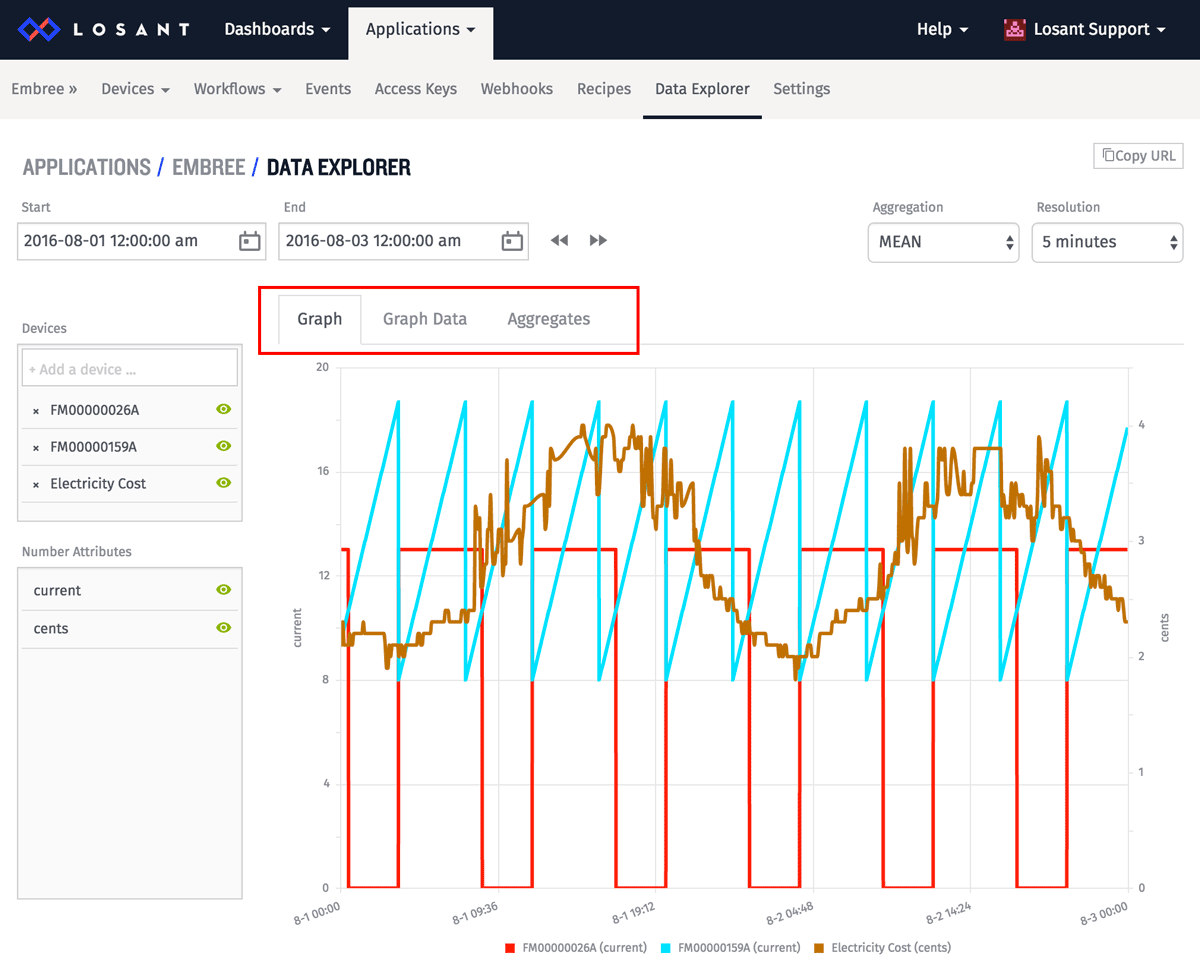
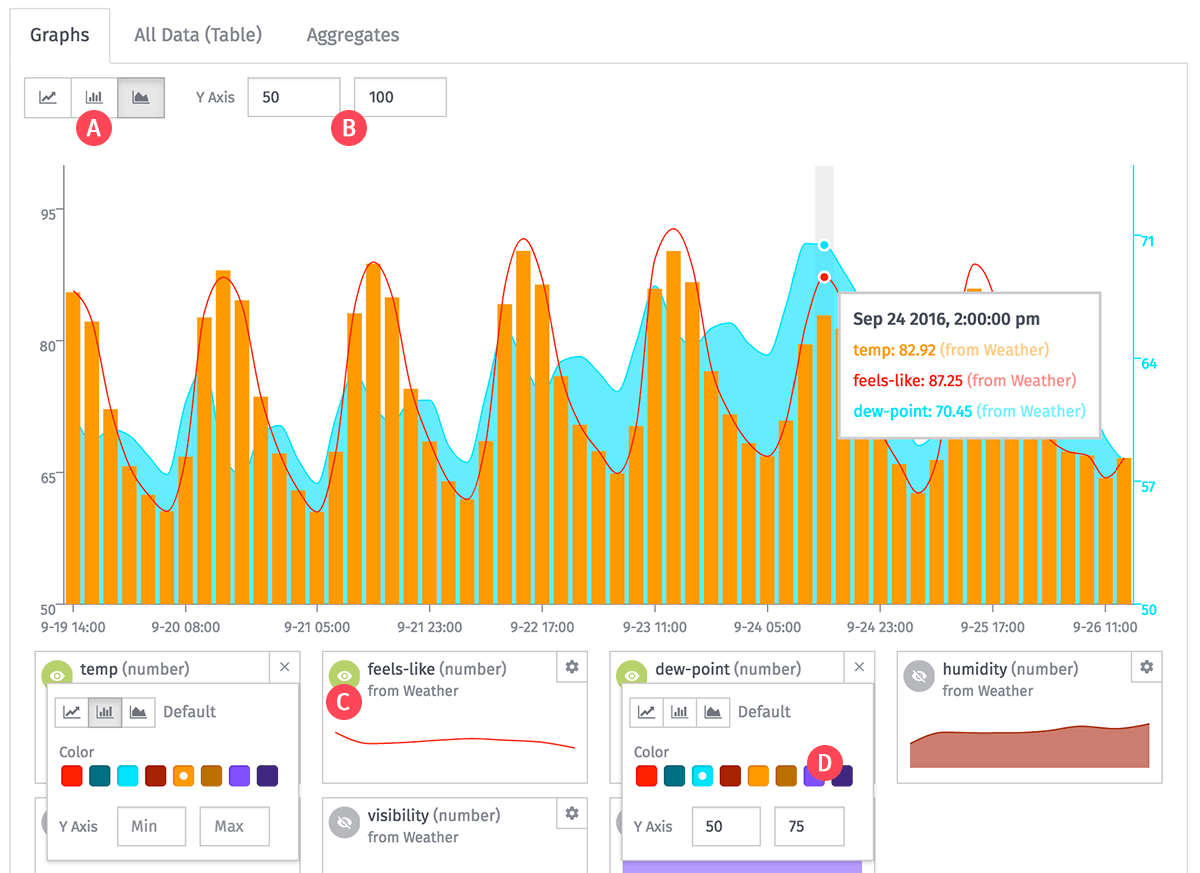
docs for data explorer

diff --git a/docs/applications/data-explorer.md b/docs/applications/data-explorer.md
@@ -1,39 +1,67 @@
 # Data Explorer
 
-The Application Data Explorer allows you to easily explore, aggregate, and analyze historical data across all of the devices in an application.
+The Application Data Explorer allows you to easily explore, aggregate and analyze historical data across all of the devices in an application.
 
-The data explorer can be accessed through the "Data Explorer" link in the Application navigation bar:
+The Data Explorer can be accessed through the "Data Explorer" link in the Application navigation bar:
 
 ![Data Explorer Link](/images/applications/data-explorer-link.png "Data Explorer Link")
 
-There are three main sections to the data explorer.  First, the inputs at the top, which control the time range, resolution, and aggregation of the data.  Second, the controls on the left side which determine what devices and attributes we are gathering data from.  And finally, the center section, which displays the data in various ways (in graph form, in table form, or in aggregation form).
+## Data Settings
 
-## Time Controls
+There are a handful of controls available for building a data query and for exploring application data over time:
 
-![Time Controls](/images/applications/data-explorer-time-controls.png "Time Controls")
-
-*   **A - Start**: controls the start of the time range of the data to display.
-*   **B - End**: controls the end of the time range of the data to display.
-*   **C - Back**: moves the time range back by the current time range duration.  For example, if you are looking at a 3 hour time range, this will move the time range into the past by 3 hours.
-*   **D - Forward**: moves the time range forward by the current time range duration.
-*   **E - Aggregation**:  the aggregator function to use for accumulating the data into the selected resolution.  Defaults to MEAN (i.e., the average of all the values in a resolution window).
-*   **F - Resolution**: The size of the aggregation window, which determines how many points will be displayed for a time range.  For example, a three hour time range at five minute resolution would have 36 data points - one for each five minute period in those three hours.
-
-## Data Controls
-
-<div class="slim-image-container">
-<img src="/images/applications/data-explorer-data-controls.png" alt="Data Controls" title="Data Controls" width="400" />
+<div>
+<img src="/images/applications/data-explorer-time-controls.png" alt="Data Controls" title="Data Controls" style="max-width:600px; margin: 0 auto 20px; display: block;" />
 </div>
 
-*   **A - Add a Device**: This dropdown lets you select one or more devices that you would like to display data for.
-*   **B - Hide/Show a Device**: Clicking this icon will allow you to temporarily hide or show the data for a device.
-*   **C - Remove a Device**: Clicking this 'x' will remove the device from the data display.
-*   **D - Attributes**: This shows the available attributes to display for the given selected devices.  As a note, this will only show `number` attributes.
-*   **E - Hide/Show an Attribute**: Clicking this icon will allow you to temporarily hide or show the data for an attribute.
+*   **A - Start**: Controls the start of the time range of the data to display.
+*   **B - End**: Controls the end of the time range of the data to display.
+*   **C - Back**: Moves the time range back by the current time range duration.  For example, if you are looking at a three-hour time range, this will move the time range into the past by three hours.
+*   **D - Forward**: Moves the time range forward by the current time range duration.
+*   **E - Now**: Moves the "End" time to the current time, and "Start" time to "now minus the current time range duration".
+*   **F - Devices / Tags**: A [device query](/devices/device-queries/#querying-by-devices) for selecting which devices to return data against. All attributes from each device that matches the query will be returned; however, the format of the returned data (and whether data even can be returned) will change depending on each attribute's type and the selected aggregation method.
+*   **G - Aggregation**:  The aggregator function to use for accumulating the data into the selected resolution.  Defaults to MEAN (i.e., the average of all the values in a resolution window).
+*   **H - Resolution**: The size of the aggregation window, which determines how many points will be displayed for a time range.  For example, a three-hour time range at five-minute resolution would have 36 data points - one for each five-minute period in those three hours.
 
-## Data Display
+## Graphs Tab
 
 ![Data Display](/images/applications/data-explorer-data-display.png "Data Display")
 
-There are a couple choices for displaying the data. By default it displays in graph form,
-but you can also choose to display all of the data points in tabular form. The third option for display just shows the over aggregates for the time range - extremely useful if you are looking for general information over a period.  For both the tabular display and the aggregate display, you can download the data as a CSV file for use in other applications.
+After building your data query, the Graph tab will update to show an array of graphable attributes with "spark lines" representing a simplified version of that attribute's data over the given time period. Only attributes of the **Number** and **Boolean** types can be displayed on the cartesian grid, unless **COUNT** is the chosen aggregation. In that case, the number of times **String** and **GPS** attributes are reported per resolution period will also be displayed on the graph.
+
+Hovering your mouse over the main graph will display a tooltip with the exact value of each graphed attribute at that time.
+
+The Graphs Tab, as well as the individual attributes within the tab, have a handful of configuration settings:
+
+*   **A - Graph Type**: Segments can be displayed as a line graph, a bar chart or an area chart. This can be set as the default across all selected attributes, and that default setting can be overridden per attribute.
+*   **B - Y Axis Domain**: Leave the min and max inputs blank to automatically calculate the graph size based on the data returned. However, if you'd like to set a custom min and/or max data range, enter a numeric value in the input(s). These values can also be overridden per attribute.
+*   **C - Toggle Visibility**: Toggle the eyeball icon to display or hide the given attribute in the main graph.
+*   **D - Color**: Each attribute is automatically assigned a color, but that color can be overridden by the user.
+
+To change graph settings for a single attribute, click the gear icon in the top right corner of the attribute box. This will display a dropdown menu for editing that attribute's settings.
+
+### Exception: Boolean Attributes
+
+![Boolean Exception](/images/applications/data-explorer-boolean.png "Boolean Exception")
+
+In the case where a **Boolean** attribute it being graphed, and the selected aggregation method is not **SUM** or **COUNT**, the attribute's graph follows a special stepped layout. It is still possible to change the attribute's color, but the Graph Type and Y Axis Domain cannot be overridden.
+
+## All Data Tab
+
+![All Data](/images/applications/data-explorer-table.png "All Data")
+
+The "All Data" tab shows all returned data points for your query – all device / attribute combinations, timestamps and the values per attribute – in a sortable table. **Number** and **Boolean** attributes will return data for any aggregation method; **GPS** and **String** attributes will only return data for "COUNT", "FIRST" and "LAST" aggregations.
+
+Note that the table is scrollable vertically (for large date ranges and/or small resolutions) and horizontally (for large numbers of attributes).
+
+It is also possible to export the data table as a CSV by clicking the button in the top right corner of the tab.
+
+## Aggregates Tab
+
+![Aggregate Data](/images/applications/data-explorer-aggregates.png "Aggregate Data")
+
+The "Aggregates" tab shows the aggregate values of each device / attribute combination over the given time period. This is the equivalent of the resolution being set to the same as the start to end duration, thus only one data point is returned for each combination.
+
+**Number** and **Boolean** attributes will return data for any aggregation method; **GPS** and **String** attributes will only return data for "COUNT", "FIRST" and "LAST" aggregations.
+
+Like the "All Data" tab, this table can also be exported as a CSV.
